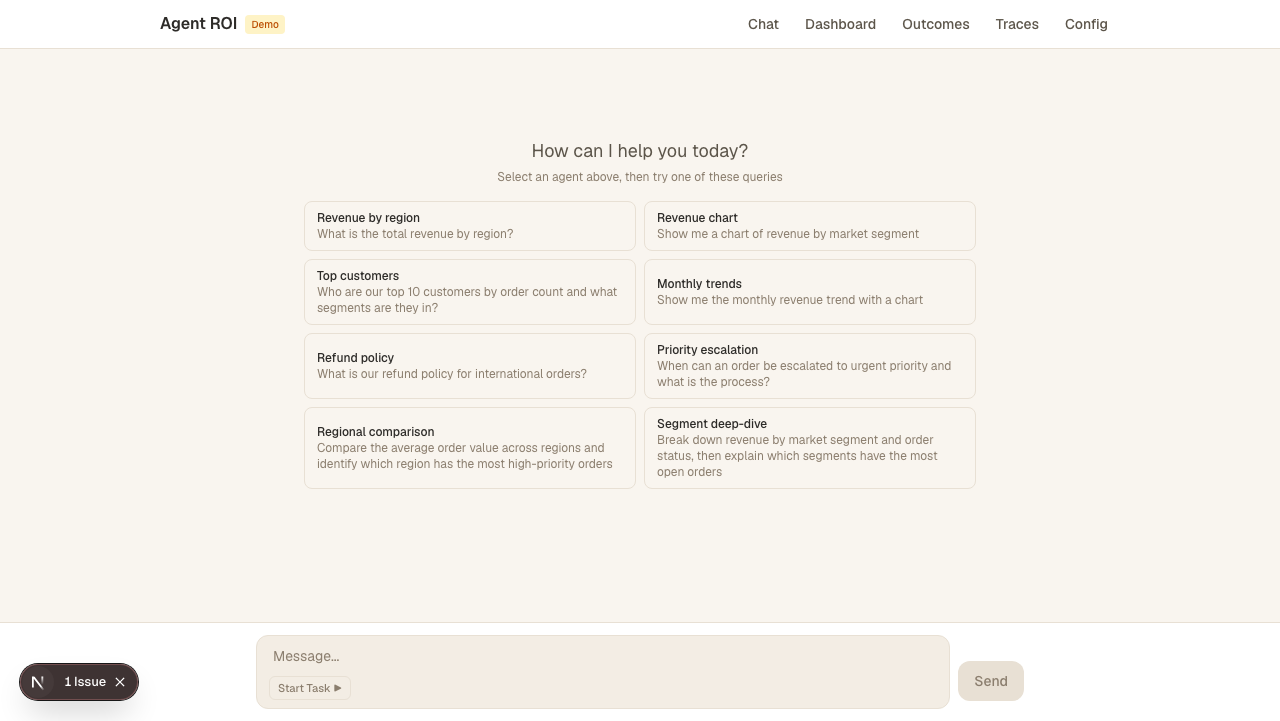
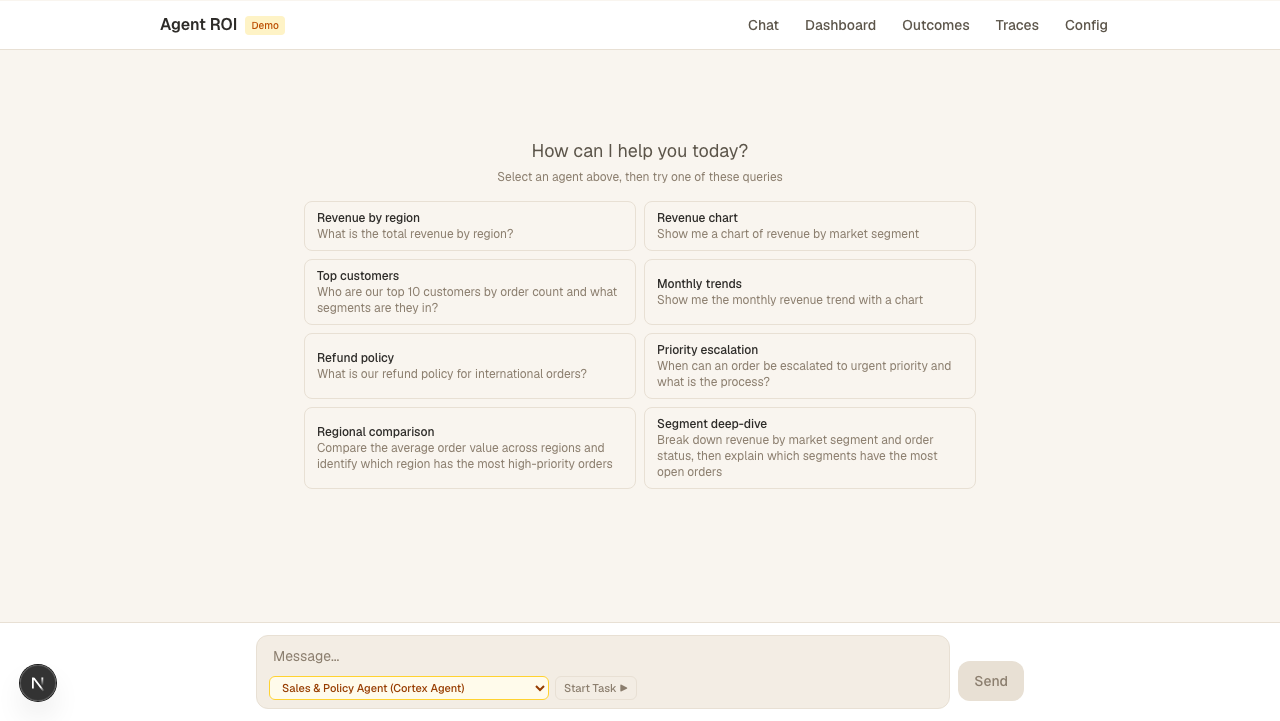
Style agent dropdown with contrast and wider width, update chat screenshot
- Agent selector: amber border/bg for better visibility, max-width 280px (no truncation)
- Retook chat screenshot showing the dropdown loaded

.... Generated with [Cortex Code](https://docs.snowflake.com/en/user-guide/cortex-code/cortex-code)

diff --git a/app/src/app/chat/page.tsx b/app/src/app/chat/page.tsx
@@ -701,7 +701,7 @@ export default function ChatPage() {
                 <select
                   value={selectedSlug}
                   onChange={(e) => handleAgentChange(e.target.value)}
-                  className="h-6 px-2 text-[11px] font-medium border border-[var(--border)] rounded-md bg-[var(--surface-secondary)] text-[var(--text-secondary)] focus:outline-none hover:text-amber-700 hover:border-amber-300 hover:bg-amber-50 cursor-pointer max-w-[140px] truncate"
+                  className="h-6 px-2 text-[11px] font-medium border border-amber-300 rounded-md bg-amber-50 text-amber-800 focus:outline-none hover:border-amber-400 hover:bg-amber-100 cursor-pointer max-w-[280px]"
                 >
                   {agents.map((a) => (
                     <option key={a.slug} value={a.slug}>{a.name}</option>